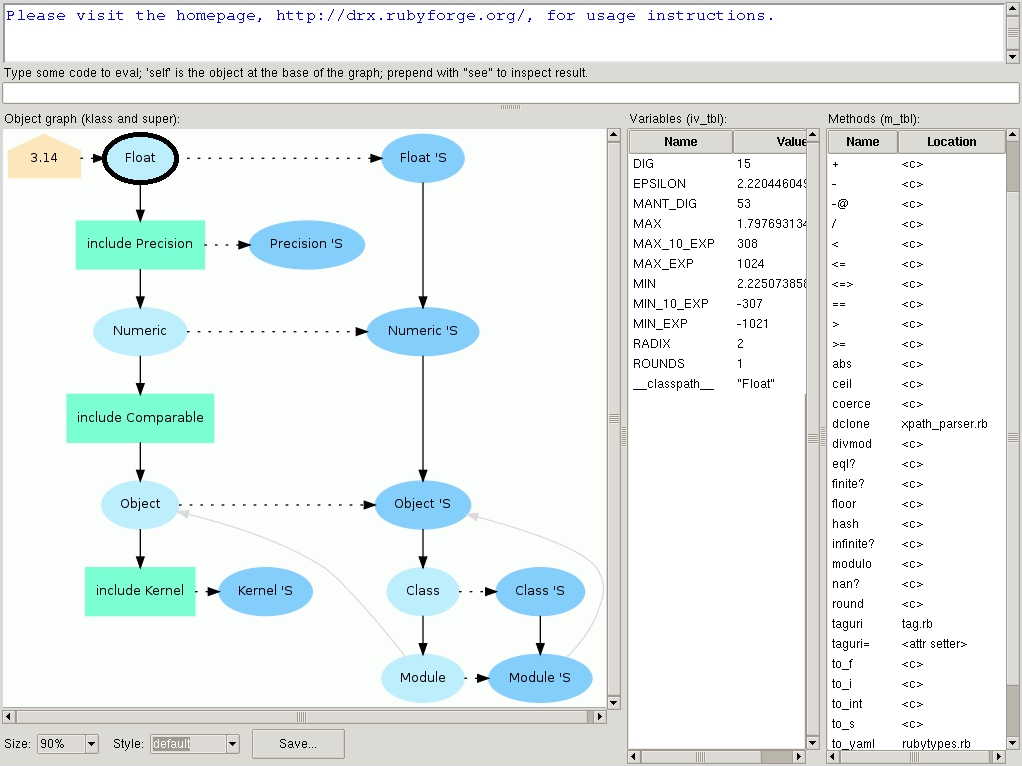
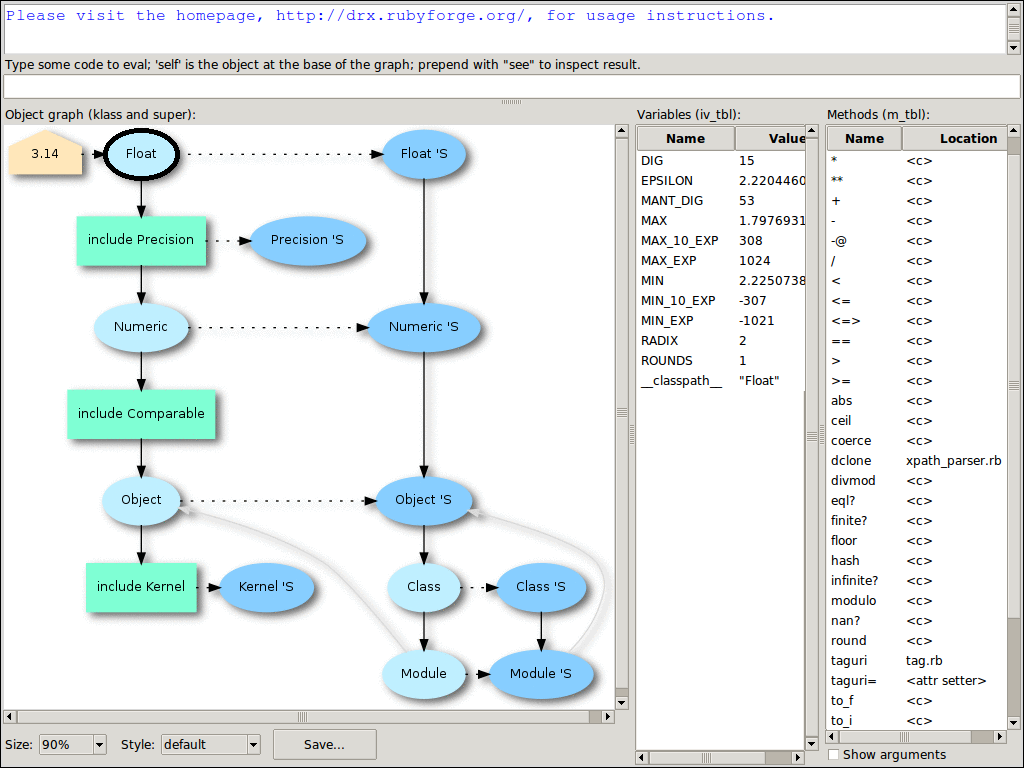
[user manual] New images.
Added images for ActiveRecord and Sequel.

Two screenshots were updated to show better font and drop-shadow.

Changed region(s): [[0.0, 0.0, 1.0, 1.0], [0.0, 0.0, 0.7583, 0.03], [0.3337, 0.3603, 0.4853, 0.4804]]

diff --git a/webpage/index.html b/webpage/index.html
@@ -11,9 +11,15 @@
 
 <div class="gallery">
 <h2>Gallery</h2>
-  <a href="314.png"><img width="300" height="255" src="314_thumb.png" /></a>
+  <a href="314.png"><img width="300" height="255" src="314_thumb.png" title="Examining a float" /></a>
     <br /> <br />
-  <a href="file.png"><img width="300" height="255" src="file_thumb.png" /></a>
+  <a href="file.png"><img width="300" height="255" src="file_thumb.png" title="Pick the 'crazy' style for randomly mangled, though consistent, shapes." /></a>
+    <br /> <br />
+  <a href="datamapper.png"><img width="300" height="255" src="datamapper_thumb.png" title="DataMapper" /></a>
+    <br /> <br />
+  <a href="activerecord.png"><img width="300" height="255" src="activerecord_thumb.png" title="ActiveRecord" /></a>
+    <br /> <br />
+  <a href="sequel.png"><img width="300" height="255" src="sequel_thumb.png" title="Sequel" /></a>
 </div>
 
 <p>DrX, the good doctor, is a small <em>object inspector</em> for Ruby.
@@ -187,8 +193,8 @@ post.see
 enlarge).</p>
 
 <div align="center">
-  <a href="datamapper.png"><img width="500" height="444"
-    src="datamapper_thumb.png" title="Screenshot showing DrX in action" /></a>
+  <a href="datamapper_noshadow.png"><img width="500" height="444"
+    src="datamapper_noshadow_thumb.png" title="Screenshot showing DrX in action" /></a>
 </div>
 
 <p>In the graph you'll notice two distinct lines of hierarchy. One describes the
